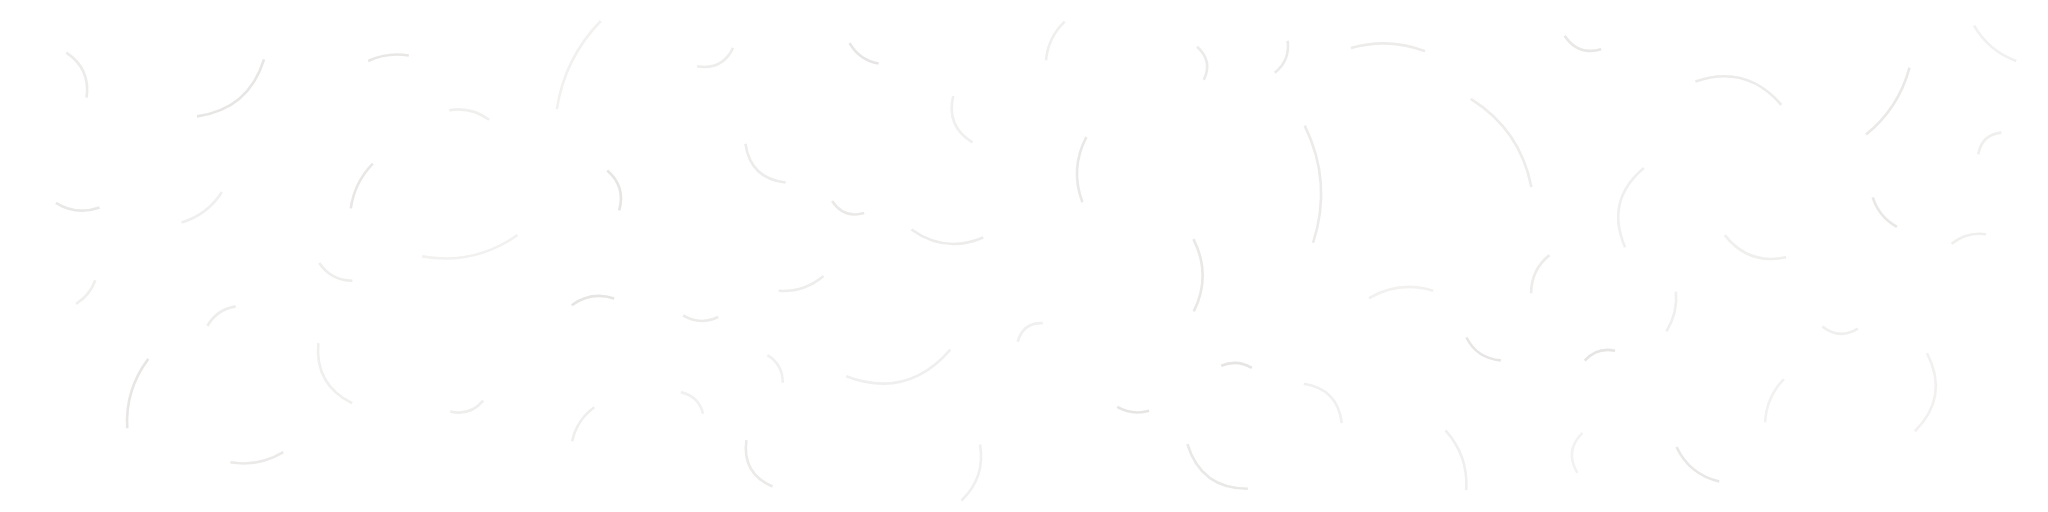
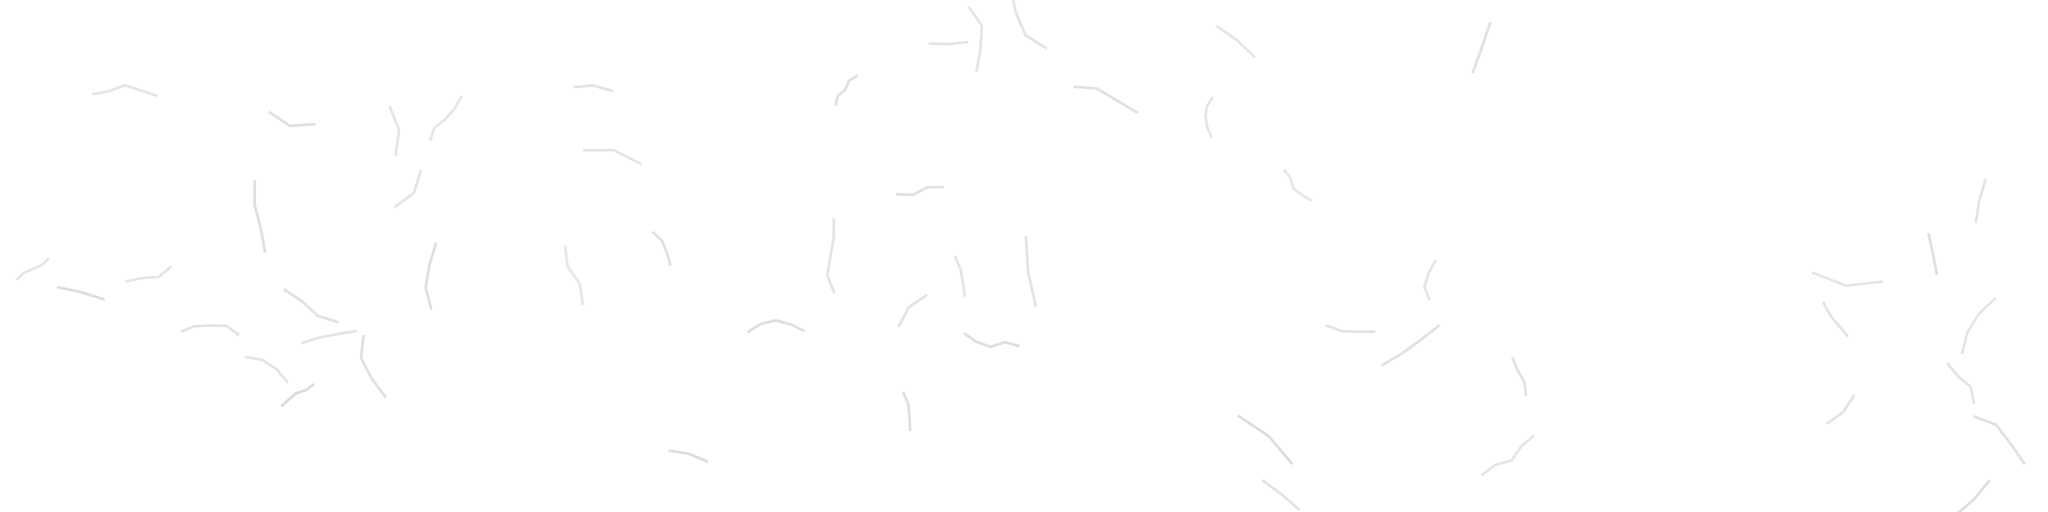
折痕改为成对明暗线：轻皱加长加深、揉皱改折线并重烘焙、单斜翘整条右下连续投影

Changed region(s): [[0.4688, 0.6562, 0.5, 0.6875], [0.2812, 0.2812, 0.3125, 0.3125], [0.125, 0.2188, 0.1562, 0.25]]

diff --git a/js/creases.js b/js/creases.js
@@ -1,9 +1,10 @@
 // creases.js —— 折痕：轻皱 / 揉皱 / 单斜翘
-// 全局约定：
-//   光源固定在左上；每条折痕 = 暗线 + 亮线一对，
-//   暗线在折痕右下侧、亮线在左上侧，间距约 1px；
-//   折痕形状为带轻微弯曲的二次贝塞尔，全部画在胶带裁剪区内，到边自动截断。
-// 揉皱不程序生成曲线（密集随机曲线会假），用预烘焙的透明底 PNG 叠加。
+// 全局约定（光源固定在左上）：
+//   每条折痕 = 暗线 + 亮线成对；暗线在右下侧、亮线在左上侧，中心间距 1px，各宽 1px，blur 0.3~0.5。
+//   远看两条线合成一条「有宽度的折痕带」，这是折痕能被读出来的关键。
+//   折痕全部 clip 在胶带内（由调用方裁剪），到边自动截断。
+// 揉皱不程序随机曲线（密集随机曲线会假），用预烘焙的透明底 PNG 叠加；
+// 烘焙内容同样是「折线 + 成对明暗线」。
 
 import { DEG } from './geometry.js';
 
@@ -39,94 +40,135 @@ function mapper(tape) {
   });
 }
 
-function quadPath(p0, p1, p2) {
+// 折痕的「右下法线」：nx > 0、ny > 0。暗线沿它偏移、亮线沿反向偏移。
+function rightDownNormal(dx, dy) {
+  let nx = -dy;
+  let ny = dx;
+  const l = Math.hypot(nx, ny) || 1;
+  nx /= l; ny /= l;
+  if (nx + ny < 0) { nx = -nx; ny = -ny; }
+  return { x: nx, y: ny };
+}
+
+function quad(p0, p1, p2) {
   const path = new Path2D();
   path.moveTo(p0.x, p0.y);
   path.quadraticCurveTo(p1.x, p1.y, p2.x, p2.y);
-  return path;
+  return { path, dir: { x: p2.x - p0.x, y: p2.y - p0.y } };
 }
 
-// 画一条折痕对：暗线偏右下、亮线偏左上
-function strokePair(ctx, path, darkAlpha, brightAlpha, darkW = 1, brightW = 1) {
+function polyline(pts) {
+  const path = new Path2D();
+  path.moveTo(pts[0].x, pts[0].y);
+  for (let i = 1; i < pts.length; i++) path.lineTo(pts[i].x, pts[i].y);
+  const dir = { x: pts[pts.length - 1].x - pts[0].x, y: pts[pts.length - 1].y - pts[0].y };
+  return { path, dir };
+}
+
+// 一对折痕线：暗线偏右下、亮线偏左上，中心距约 1.6px，叠成一条 2~3px 的折痕带。
+// 暗线略粗（1.5px）以在浅色纹理上也读得出，亮线 1.1px 只在深浅交界处提一点光。
+function strokePair(ctx, path, dir, darkAlpha, brightAlpha, width = 1) {
+  const n = rightDownNormal(dir.x, dir.y);
+
   ctx.save();
-  ctx.translate(0.4, 0.6);
-  if (supportsFilter) ctx.filter = 'blur(0.4px)';
+  ctx.translate(n.x * 0.8, n.y * 0.8);
+  if (supportsFilter) ctx.filter = 'blur(0.45px)';
   ctx.strokeStyle = `rgba(42, 34, 23, ${darkAlpha})`;
-  ctx.lineWidth = darkW;
+  ctx.lineWidth = width * 1.5;
   ctx.stroke(path);
   ctx.restore();
 
   ctx.save();
-  ctx.translate(-0.4, -0.6);
+  ctx.translate(-n.x * 0.8, -n.y * 0.8);
   if (supportsFilter) ctx.filter = 'blur(0.4px)';
   ctx.strokeStyle = `rgba(255, 255, 255, ${brightAlpha})`;
-  ctx.lineWidth = brightW;
+  ctx.lineWidth = width * 1.1;
   ctx.stroke(path);
   ctx.restore();
 }
 
-// ---- 轻皱：2~4 条稀疏大折痕，随机散布 ----
+// ---- 轻皱：3~5 条长折痕，接近直线（只允许一个轻微弧度），多数同向 ----
 function drawLight(ctx, tape, rng) {
   const map = mapper(tape);
   const W = tape.widthPx;
-  const count = 2 + Math.floor(rng() * 3); // 2~4 条
+  const count = 3 + Math.floor(rng() * 3);        // 3~5 条
+  const baseA = 20 + rng() * 30;                  // 基准 20°~50°
+  const baseSign = rng() < 0.5 ? 1 : -1;
+
   for (let i = 0; i < count; i++) {
-    const sC = 0.12 + rng() * 0.76;             // 散布整个表面，不集中在两端
-    const vC = 0.30 + rng() * 0.40;
-    const aDeg = 30 + rng() * 30 + (rng() - 0.5) * 10; // 与长边 30°~60°，微差 10°
-    const a = aDeg * DEG * (rng() < 0.5 ? 1 : -1);
-    const len = W * (1 / 3 + rng() / 3);        // 宽度的 1/3~2/3
+    const aDeg = baseA + (rng() - 0.5) * 16;      // 同向微差 ±8°
+    const sign = rng() < 0.78 ? baseSign : -baseSign;
+    const a = aDeg * DEG * sign;
+    const len = W * (0.5 + rng() * 0.25);         // 1/2~3/4 带宽
+    const sC = 0.14 + rng() * 0.72;
+    const vC = 0.16 + rng() * 0.68;
     const c = map(sC, vC);
     const dx = Math.cos(a), dy = Math.sin(a);
     const p0 = { x: c.x - dx * len / 2, y: c.y - dy * len / 2 };
     const p2 = { x: c.x + dx * len / 2, y: c.y + dy * len / 2 };
-    const bend = (5 + rng() * 5) * (rng() < 0.5 ? 1 : -1); // 控制点偏移 5~10px
+    // 只允许一个轻微弧度：控制点偏移 3~6px
+    const bend = (3 + rng() * 3) * (rng() < 0.5 ? 1 : -1);
     const p1 = { x: (p0.x + p2.x) / 2 - dy * bend, y: (p0.y + p2.y) / 2 + dx * bend };
-    strokePair(ctx, quadPath(p0, p1, p2), 0.08 + rng() * 0.04, 0.05 + rng() * 0.03);
+    const { path, dir } = quad(p0, p1, p2);
+    strokePair(ctx, path, dir, 0.14 + rng() * 0.04, 0.10 + rng() * 0.02);
   }
 }
 
-// ---- 单斜翘：一条主折痕横贯胶带 + 随机一端翘起投影 ----
+// ---- 单斜翘：一条主折痕横贯胶带，整条右下侧有一层连续淡投影 ----
 function drawSkew(ctx, tape, rng) {
   const map = mapper(tape);
   const W = tape.widthPx;
-  const sC = 0.25 + rng() * 0.5;                // 位置随机，不固定中间
-  const a = (30 + rng() * 15) * DEG;            // 斜 30°~45°
-  // 左下到右上：y 随 x 增大而减小
-  const dx = Math.cos(a), dy = -Math.sin(a);
-  const len = (W * 1.2) / Math.sin(a);          // 横贯整条胶带，出头被裁掉
+  const sC = 0.28 + rng() * 0.44;                 // 位置随机，不固定中间
+  const a = (30 + rng() * 15) * DEG;               // 斜 30°~45°
+  const dx = Math.cos(a), dy = -Math.sin(a);       // 左下 → 右上
+  const len = (W * 1.25) / Math.sin(a);            // 横贯整条胶带，出头被裁掉
   const c = map(sC, 0.5);
   const p0 = { x: c.x - dx * len / 2, y: c.y - dy * len / 2 };
   const p2 = { x: c.x + dx * len / 2, y: c.y + dy * len / 2 };
-  const bend = (2 + rng() * 3) * (rng() < 0.5 ? 1 : -1); // 接近直线，轻微弧度
+  const bend = (2 + rng() * 2.5) * (rng() < 0.5 ? 1 : -1); // 接近直线，微弧
   const p1 = { x: (p0.x + p2.x) / 2 - dy * bend, y: (p0.y + p2.y) / 2 + dx * bend };
-  strokePair(ctx, quadPath(p0, p1, p2), 0.15 + rng() * 0.05, 0.10 + rng() * 0.05);
+  const { path, dir } = quad(p0, p1, p2);
 
-  // 翘起投影：随机选折痕一端，影子落在折痕右下侧的半平面内
-  const end = rng() < 0.5 ? p0 : p2;
-  const inX = end === p0 ? dx : -dx;            // 从端点向里的方向
-  const inY = end === p0 ? dy : -dy;
-  const nx = -dy, ny = dx;                      // 右下法线（本角度范围内恒指向右下）
-  const big = tape.total;
-  const hp = new Path2D();
-  hp.moveTo(p0.x, p0.y);
-  hp.lineTo(p2.x, p2.y);
-  hp.lineTo(p2.x + nx * big, p2.y + ny * big);
-  hp.lineTo(p0.x + nx * big, p0.y + ny * big);
-  hp.closePath();
+  // 投影：沿整条折痕的右下侧铺 4~6px 并逐渐变淡（不是孤立小三角）
+  projectAlong(ctx, p0, p1, p2, dir, 4.5 + rng() * 1.5, 0.16);
+
+  // 主折痕本身：比其他效果深
+  strokePair(ctx, path, dir, 0.24 + rng() * 0.04, 0.14 + rng() * 0.04);
+}
+
+// 沿折痕右下侧铺一条渐变带：宽度 bandW，越远离折痕越淡
+function projectAlong(ctx, p0, p1, p2, dir, bandW, alpha) {
+  const n = rightDownNormal(dir.x, dir.y);
+  const STEPS = 18;
+  const pts = [];
+  for (let i = 0; i <= STEPS; i++) {
+    const t = i / STEPS;
+    const mt = 1 - t;
+    pts.push({
+      x: mt * mt * p0.x + 2 * mt * t * p1.x + t * t * p2.x,
+      y: mt * mt * p0.y + 2 * mt * t * p1.y + t * t * p2.y,
+    });
+  }
+
+  const band = new Path2D();
+  band.moveTo(pts[0].x, pts[0].y);
+  for (let i = 1; i < pts.length; i++) band.lineTo(pts[i].x, pts[i].y);
+  for (let i = pts.length - 1; i >= 0; i--) {
+    band.lineTo(pts[i].x + n.x * bandW, pts[i].y + n.y * bandW);
+  }
+  band.closePath();
+
+  const mid = pts[Math.floor(pts.length / 2)];
+  const g = ctx.createLinearGradient(mid.x, mid.y, mid.x + n.x * bandW, mid.y + n.y * bandW);
+  g.addColorStop(0, `rgba(42, 34, 23, ${alpha})`);
+  g.addColorStop(0.35, `rgba(42, 34, 23, ${alpha * 0.55})`);
+  g.addColorStop(1, 'rgba(42, 34, 23, 0)');
 
   ctx.save();
-  ctx.clip(hp);
   ctx.translate(1.5, 2);
-  if (supportsFilter) ctx.filter = 'blur(5px)';
-  ctx.strokeStyle = 'rgba(42, 34, 23, 0.09)';
-  ctx.lineWidth = W * 0.22;
-  ctx.lineCap = 'round';
-  const seg = len * 0.20;
-  ctx.beginPath();
-  ctx.moveTo(end.x + inX * seg * 0.1, end.y + inY * seg * 0.1);
-  ctx.lineTo(end.x + inX * seg * 0.8, end.y + inY * seg * 0.8);
-  ctx.stroke();
+  if (supportsFilter) ctx.filter = 'blur(1.8px)';
+  ctx.fillStyle = g;
+  ctx.fill(band);
   ctx.restore();
 }
 
@@ -154,29 +196,31 @@ export function drawCreases(ctx, tape, crease) {
   else if (crease.style === 'crumple' && crease.img) drawCrumple(ctx, tape, crease.img);
 }
 
-// ---- 烘焙用：在 W×H 透明画布上画一张揉皱纹理 ----
-// 短碎痕、随机多方向、互不相交；暗 0.05~0.10、亮 0.03~0.06（密集会叠加，单条要浅）
+// ---- 烘焙用：一张揉皱纹理（2048×512 透明底） ----
+// 折线折痕：2~4 段短直线首尾相连，有转折角；方向完全随机，允许交叉、端点相接。
+// 数量按「一条胶带上能看到 8~12 条」倒推：纹理高 = 2.2 倍带宽，可视区约为纹理的 23%。
 export function bakeCrumplePattern(ctx, W, H, seed) {
   const rng = mulberry32(seed);
-  const pts = [];
-  const COUNT = 78;
-  let guard = 0;
-  while (pts.length < COUNT && guard++ < 8000) {
-    const len = 30 + rng() * 90;                // 30~120px 短痕（运行时约缩到一半）
-    const x = 50 + rng() * (W - 100);
-    const y = 40 + rng() * (H - 80);
-    // 与其他痕保持最小距离，避免相交、端点相碰
-    const ok = pts.every(p => Math.hypot(p.x - x, p.y - y) > (p.len + len) / 2 + 46);
-    if (!ok) continue;
-    pts.push({ x, y, len, a: rng() * Math.PI });
-  }
-  for (const p of pts) {
-    const dx = Math.cos(p.a), dy = Math.sin(p.a);
-    const p0 = { x: p.x - dx * p.len / 2, y: p.y - dy * p.len / 2 };
-    const p2 = { x: p.x + dx * p.len / 2, y: p.y + dy * p.len / 2 };
-    const bend = p.len * (0.15 + rng() * 0.25) * (rng() < 0.5 ? 1 : -1); // 短而急
-    const p1 = { x: (p0.x + p2.x) / 2 - dy * bend, y: (p0.y + p2.y) / 2 + dx * bend };
-    // 烘焙尺寸 2048×512，运行时约缩到 0.4~1 倍，线宽和 alpha 都按偏深给
-    strokePair(ctx, quadPath(p0, p1, p2), 0.06 + rng() * 0.06, 0.04 + rng() * 0.04, 2.6, 2);
+  const tapeW = H / 2.2;          // 与 drawCrumple 的缩放约定保持一致
+  const COUNT = 54;               // 约 12 条落在一条胶带上
+  const margin = 20;
+
+  for (let i = 0; i < COUNT; i++) {
+    const total = tapeW * (1 / 6 + rng() / 6);      // 总长 1/6~1/3 带宽
+    const segs = 2 + Math.floor(rng() * 3);         // 2~4 段
+    let a = rng() * Math.PI * 2;                    // 完全随机方向
+    let x = margin + rng() * (W - margin * 2);
+    let y = margin + rng() * (H - margin * 2);
+    const pts = [{ x, y }];
+    const segLen = total / segs;
+    for (let k = 0; k < segs; k++) {
+      a += (rng() - 0.5) * 80 * DEG;                // 转折角
+      x += Math.cos(a) * segLen;
+      y += Math.sin(a) * segLen;
+      pts.push({ x, y });
+    }
+    const { path, dir } = polyline(pts);
+    // 烘焙时纹理会被缩到 0.77 倍左右，线宽给 1.8 时才约合显示 1.4px
+    strokePair(ctx, path, dir, 0.11 + rng() * 0.05, 0.06 + rng() * 0.04, 1.8);
   }
 }
